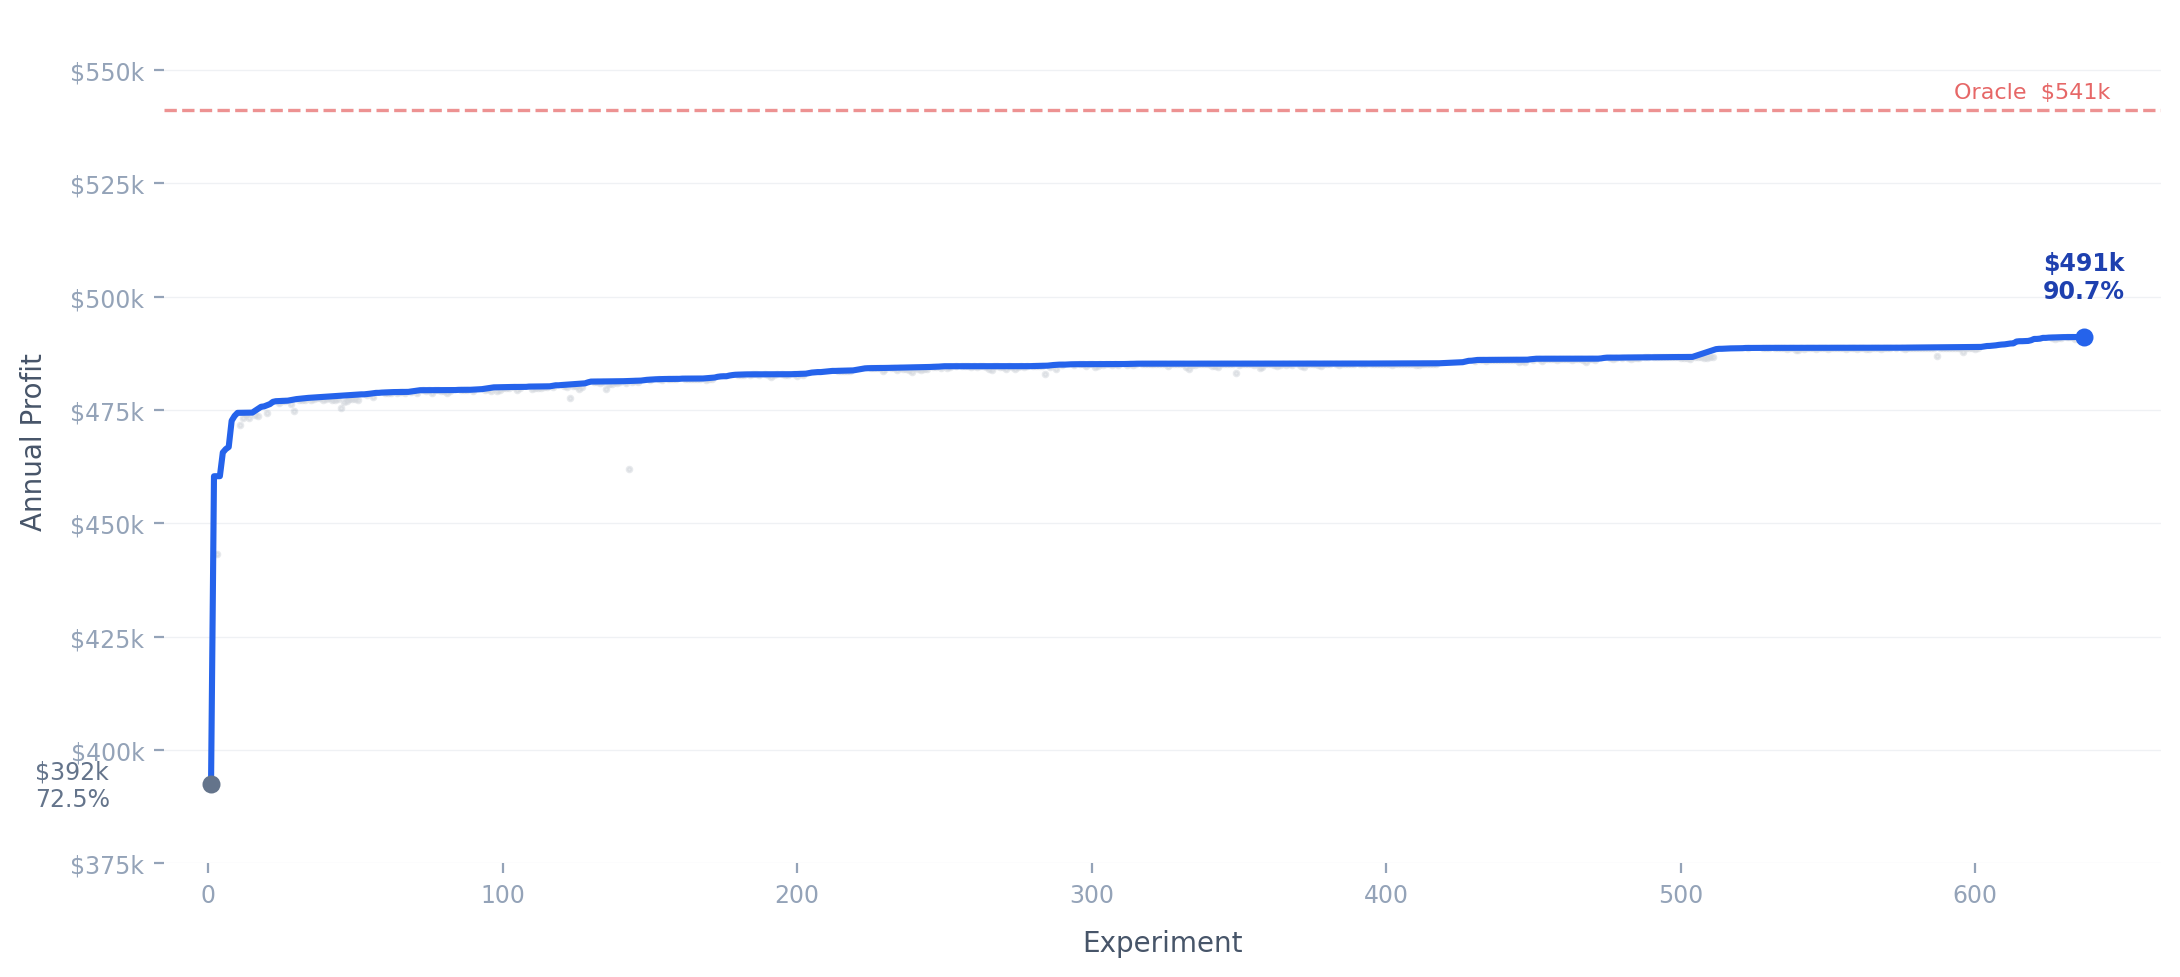
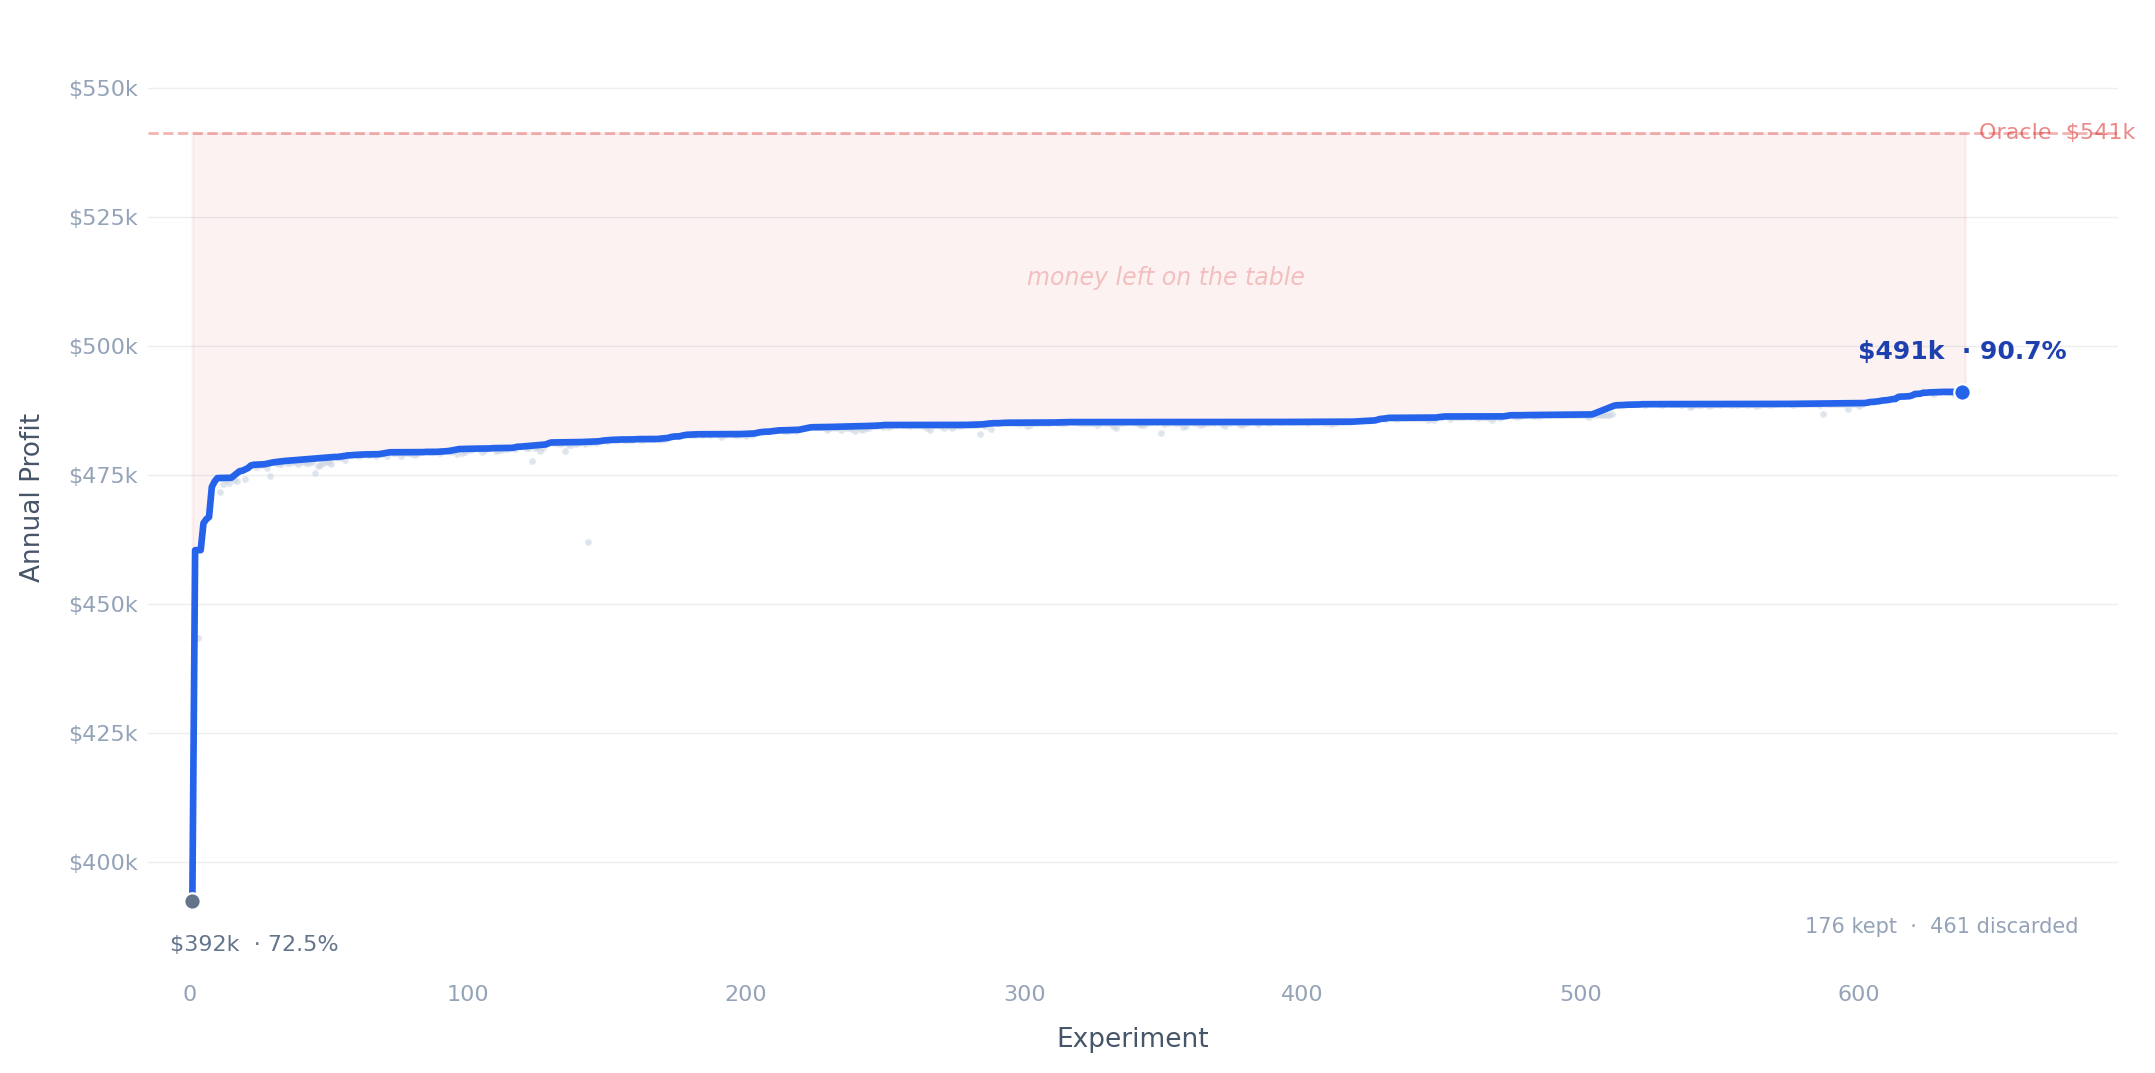
Rewrite README and chart for clarity and depth
Rewrite opening to lead with the human story and make censored
demand visceral. Add "Why this is hard" with four concrete reasons.
Reframe discoveries as narratives. Add Lessons section drawing
broader insights about optimization, AI, and compounding errors.
Redesign chart with gap shading to visualize money left on the table.

diff --git a/README.md b/README.md
@@ -2,87 +2,140 @@
 
 ![Profit trajectory across 639 experiments](progress.png)
 
-A Boston flower shop orders five products every morning with no chance to reorder.
-Whatever doesn't sell is thrown away. An AI agent (Claude) edits the ordering
-policy overnight, runs a deterministic simulation, and keeps or discards each
-change based on measured profit. **639 experiments later, it captures 90.7% of
-the theoretical maximum.**
+Every morning a flower shop places a single order for the day. No second
+chances — whatever doesn't sell by closing is thrown in the trash. Order too
+many and you're literally throwing money away. Order too few and you'll never
+know: a customer who walks into an empty store doesn't leave a note.
 
-## How it works
+That last part is the real problem. **Your sales data is lying to you.** On the
+days you need it most — Valentine's Day, Mother's Day — you sell out early and
+your records say "sold 50 roses." But maybe 200 people wanted them. You'll
+never know. And the worse you understock, the more your data tells you demand
+is low. It's a trap that gets tighter the longer you're in it.
 
-- **`prepare.py`** — Fixed evaluation harness. Simulates a full year of
-  ordering against true (hidden) demand. Deterministic: same policy always
-  produces the same profit. The agent never modifies this file.
-- **`policy.py`** — The ordering policy. This is the only file the agent edits.
-  It receives the day, product, censored sales history, and past orders, then
-  returns a quantity.
-- **`agenda.md`** — Written by the human. Contains the business context
-  (products, costs, seasonality, risk preferences) and the experiment protocol
-  the agent follows.
+This repo is an experiment: give an AI agent the business context, a
+deterministic simulator, and one rule — *only keep changes that measurably
+improve profit* — then let it run. **639 experiments later, it closes the gap
+from 72.5% to 90.7% of the theoretical maximum** (the profit you'd get if you
+could see the future).
+
+## The setup
+
+A human writes two files and never touches them again:
+
+- **`prepare.py`** — A sealed simulator. One year of daily ordering against
+  hidden true demand. Deterministic: same policy in, same profit out, every
+  time. This is the judge.
+- **`agenda.md`** — The business brief. Five products, their costs and margins,
+  what the owner knows about seasonality and customer behavior, and a protocol
+  for the agent to follow.
+
+The agent edits one file:
+
+- **`policy.py`** — Given the day, the product, and the (censored) sales
+  history, return a number: how many to order. This is the only lever.
+
+The loop: edit the policy, run the simulator, measure profit. Better? Keep it.
+Worse? Revert. Repeat 639 times.
 
 ## Quick start
 
 ```bash
 git clone https://github.com/harslan/autoinventory.git
 cd autoinventory
-python prepare.py          # evaluate the current policy
+python prepare.py
 ```
-
-Output:
 
 ```
   Oracle profit : $    541,236  (perfect information upper bound)
   Policy profit : $    491,103  (90.7% of oracle)
 ```
 
+## Why this is hard
+
+**The data lies.** When you sell out, your records show a sale — not the true
+demand. Every stockout makes your historical average a little too low, which
+makes you order a little too little, which causes more stockouts. This is
+called *censored demand*, and it's the central challenge of inventory
+management.
+
+**The costs are lopsided.** A wasted rose costs $8 (the purchase price). A
+missed rose sale costs $17 (the lost margin). For orchids it's $15 vs $30. The
+rational move is to over-order slightly — but "slightly" is doing a lot of work
+in that sentence when Valentine's Day demand is 8x a normal Tuesday.
+
+**Holidays are cliffs, not hills.** Rose demand doesn't gently rise into
+Valentine's Day. It spikes 8x on the day, 4x the day before, then crashes.
+Mother's Day is the same for orchids and lilies. Getting the shape of these
+spikes right — not just their existence — is where most of the profit hides.
+
+**Products contaminate each other.** When roses sell out on Valentine's Day,
+some customers buy tulips instead. This makes tulip demand *appear* elevated,
+which inflates future tulip orders, which wastes money on days when demand is
+actually normal.
+
+## What the agent discovered
+
+| Milestone | Profit | % Oracle | |
+|-----------|--------|----------|-|
+| Baseline | $392,449 | 72.5% | Fixed quantities, no learning |
+| Adaptive + holidays | $460,382 | 85.1% | Learns from history, boosts for holidays |
+| Per-product tuning | $485,209 | 89.6% | Each flower gets its own parameters |
+| Final | **$491,103** | **90.7%** | Post-holiday corrections, seasonal shaping |
+
+Some of the more interesting findings:
+
+- **The Monday after Mother's Day** is the single biggest miss. Orchid and lily
+  customers who couldn't buy on Sunday come back Monday. A 3.5x orchid boost
+  on that one day added $3,000 in profit.
+- **Orchids have memory.** For most products, recent sales are the best
+  predictor. For orchids, the opposite is true — older data is *more*
+  informative because orchid demand is remarkably stable. The agent discovered
+  this by finding that a *negative* smoothing weight works best.
+- **Holidays poison the data.** After Valentine's Day, the exponential average
+  is inflated by the spike. Without a dampener (0.85x for the days right
+  after), the policy over-orders roses for weeks.
+- **Censoring correction must be per-product.** Orchids need gentle inflation
+  (0.18), tulips need aggressive inflation (0.35). One size fits nobody.
+
+## Lessons
+
+**Most experiments fail, and that's the point.** Of 639 experiments, 461 were
+discarded. The agent tried widening windows that needed narrowing, boosting
+holidays that didn't exist, and adding safety stock that created more waste than
+it prevented. Each failure sharpened the search. The value isn't in any single
+experiment — it's in the *volume* of experimentation.
+
+**The first 10% of effort captures 70% of the gains.** The jump from 72.5% to
+85.1% took 2 experiments. The crawl from 85.1% to 90.7% took 637. This is
+the universal shape of optimization: early wins are structural (learn from
+history, acknowledge holidays exist), late wins are surgical (the exact
+dampening factor for roses the week after Valentine's Day). Both matter.
+
+**Domain knowledge is the scaffold.** The agent didn't discover Valentine's Day
+from data — the human said "Valentine's Day is big for roses" in the business
+brief. What the agent *did* discover is that demand spikes 4.4x the day
+*before*, that orchids and tulips also spike (but differently), and that the
+data stays poisoned for days afterward. The human provides the map; the agent
+explores every path on it.
+
+**The hardest problems are second-order.** The obvious challenge is forecasting
+demand. The subtle one is that your forecasting errors compound: a stockout
+biases your data, which biases your next order, which causes another stockout.
+The best improvements didn't come from better forecasting — they came from
+understanding how the system's own behavior corrupts its inputs.
+
 ## Project structure
 
 ```
 autoinventory/
-  agenda.md      # business context + experiment protocol (human-written)
-  prepare.py     # deterministic simulation harness (never modified)
-  policy.py      # ordering policy (agent-edited, 639 experiments)
-  results.tsv    # full experiment log: commit, profit, status, description
-  progress.png   # profit trajectory visualization
-  CLAUDE.md      # agent instructions
+├── agenda.md       # business context + experiment protocol
+├── prepare.py      # deterministic simulator (never modified)
+├── policy.py       # ordering policy (the agent's canvas)
+├── results.tsv     # full experiment log (639 rows)
+├── progress.png    # profit trajectory chart
+└── CLAUDE.md       # agent instructions
 ```
-
-## Design choices
-
-**Censored demand.** When the shop sells out, we don't know how many customers
-walked away. The policy only sees what was sold, never true demand. This makes
-naive averaging systematically underestimate peak days.
-
-**Cost asymmetry.** Stockouts cost lost margin ($7-$30 per unit depending on
-product). Waste costs the purchase price ($3-$15). The optimal policy
-over-orders slightly, especially before holidays.
-
-**Deterministic simulation.** Fixed random seed means every $1 change is real.
-No confidence intervals needed. This lets the agent run hundreds of A/B tests
-in minutes.
-
-**Censoring inflation.** When a stockout is detected, the policy inflates its
-demand estimate proportional to the stockout rate — a simple correction for the
-systematic undercount.
-
-## Results
-
-| Milestone | Profit | % Oracle | How |
-|-----------|--------|----------|-----|
-| Baseline (flat ordering) | $392,449 | 72.5% | Fixed quantities per product |
-| Adaptive + holidays | $460,382 | 85.1% | EMA on censored sales, Valentine's/Mother's Day boosts |
-| Tuned parameters | $485,209 | 89.6% | Per-product inflate coefficients, EMA alphas, exclusion windows |
-| Final | $491,103 | 90.7% | Post-holiday dampeners, graduated seasonal boosts, Sunday effects |
-
-Key discoveries along the way:
-- **Post-Mother's Day Monday** is the biggest single-day miss for orchids and
-  lilies — a 3.5x and 2.0x boost on the Monday after Mother's Day added ~$3,000
-- **Censored demand inflation** needs to be product-specific: orchids 0.18,
-  tulips 0.35, others 0.30
-- **Negative EMA alpha** works for orchids — older observations are *more*
-  informative than recent ones because orchid demand is stable
-- **Post-holiday dampeners** (0.85x for roses/tulips after Valentine's Day)
-  prevent the EMA from being inflated by holiday ordering
 
 ## License
 
